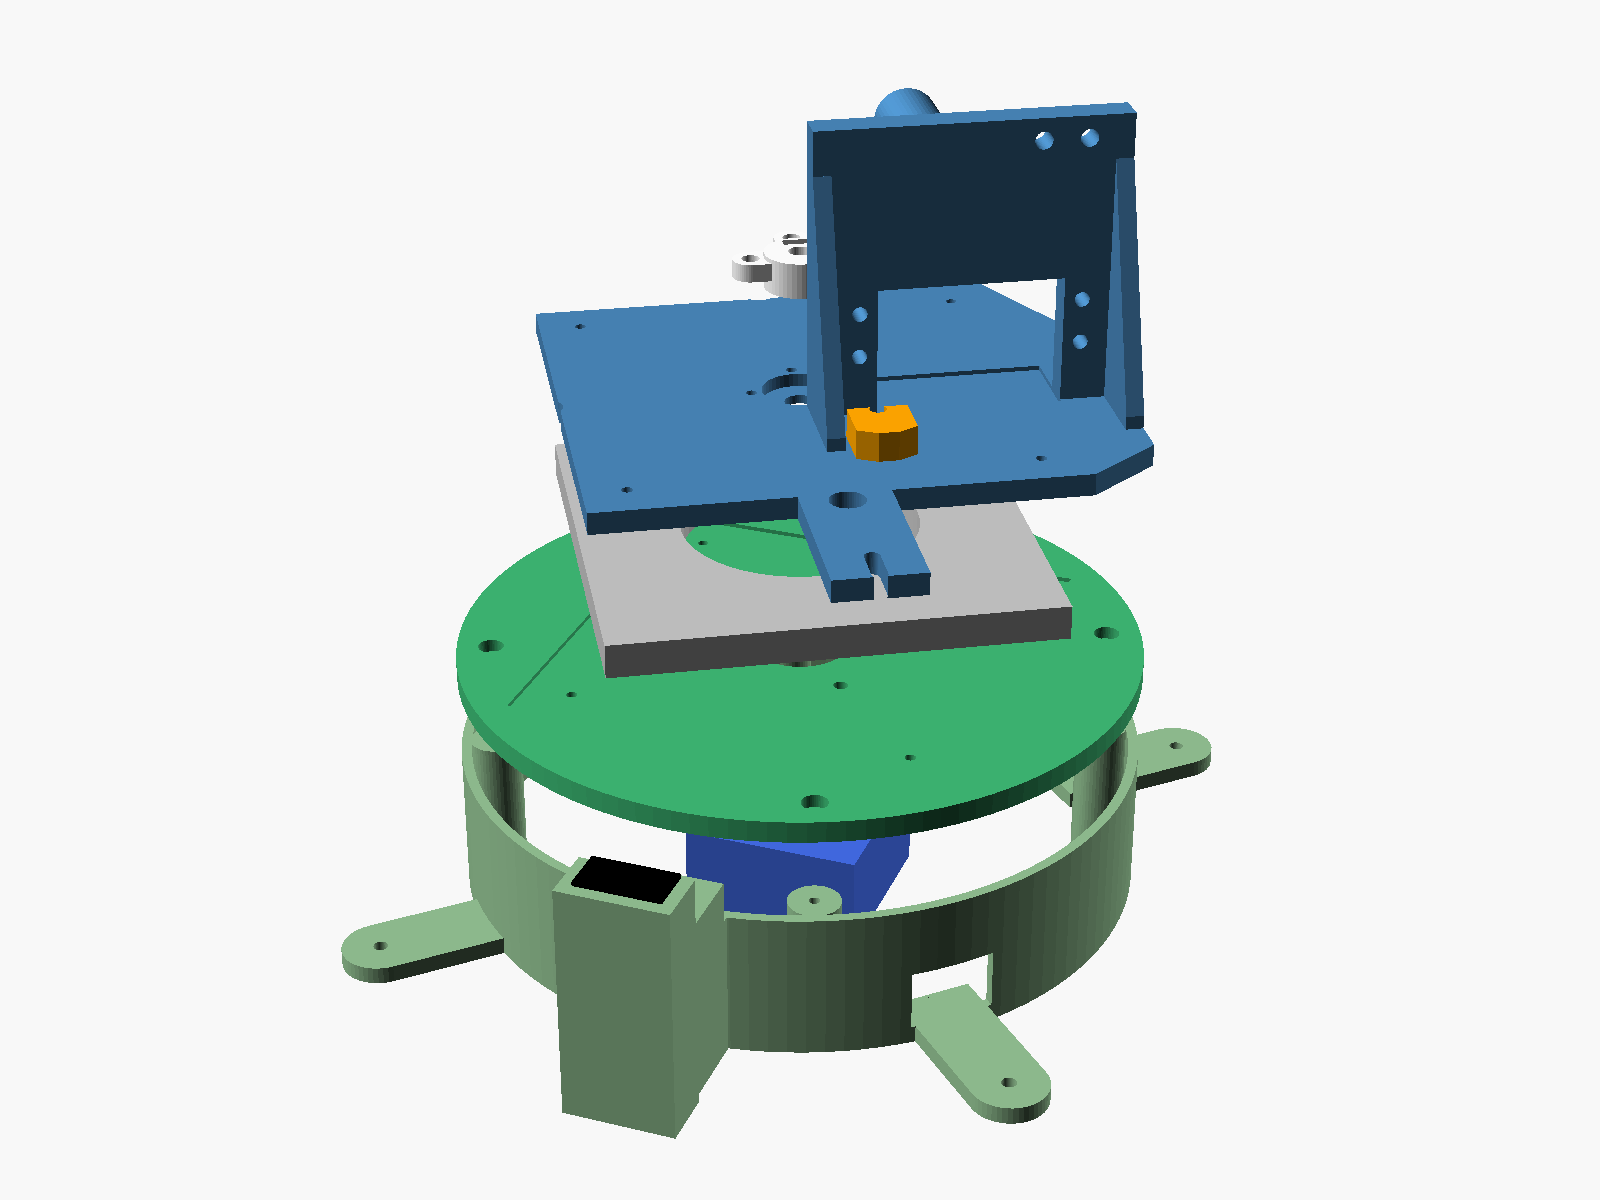
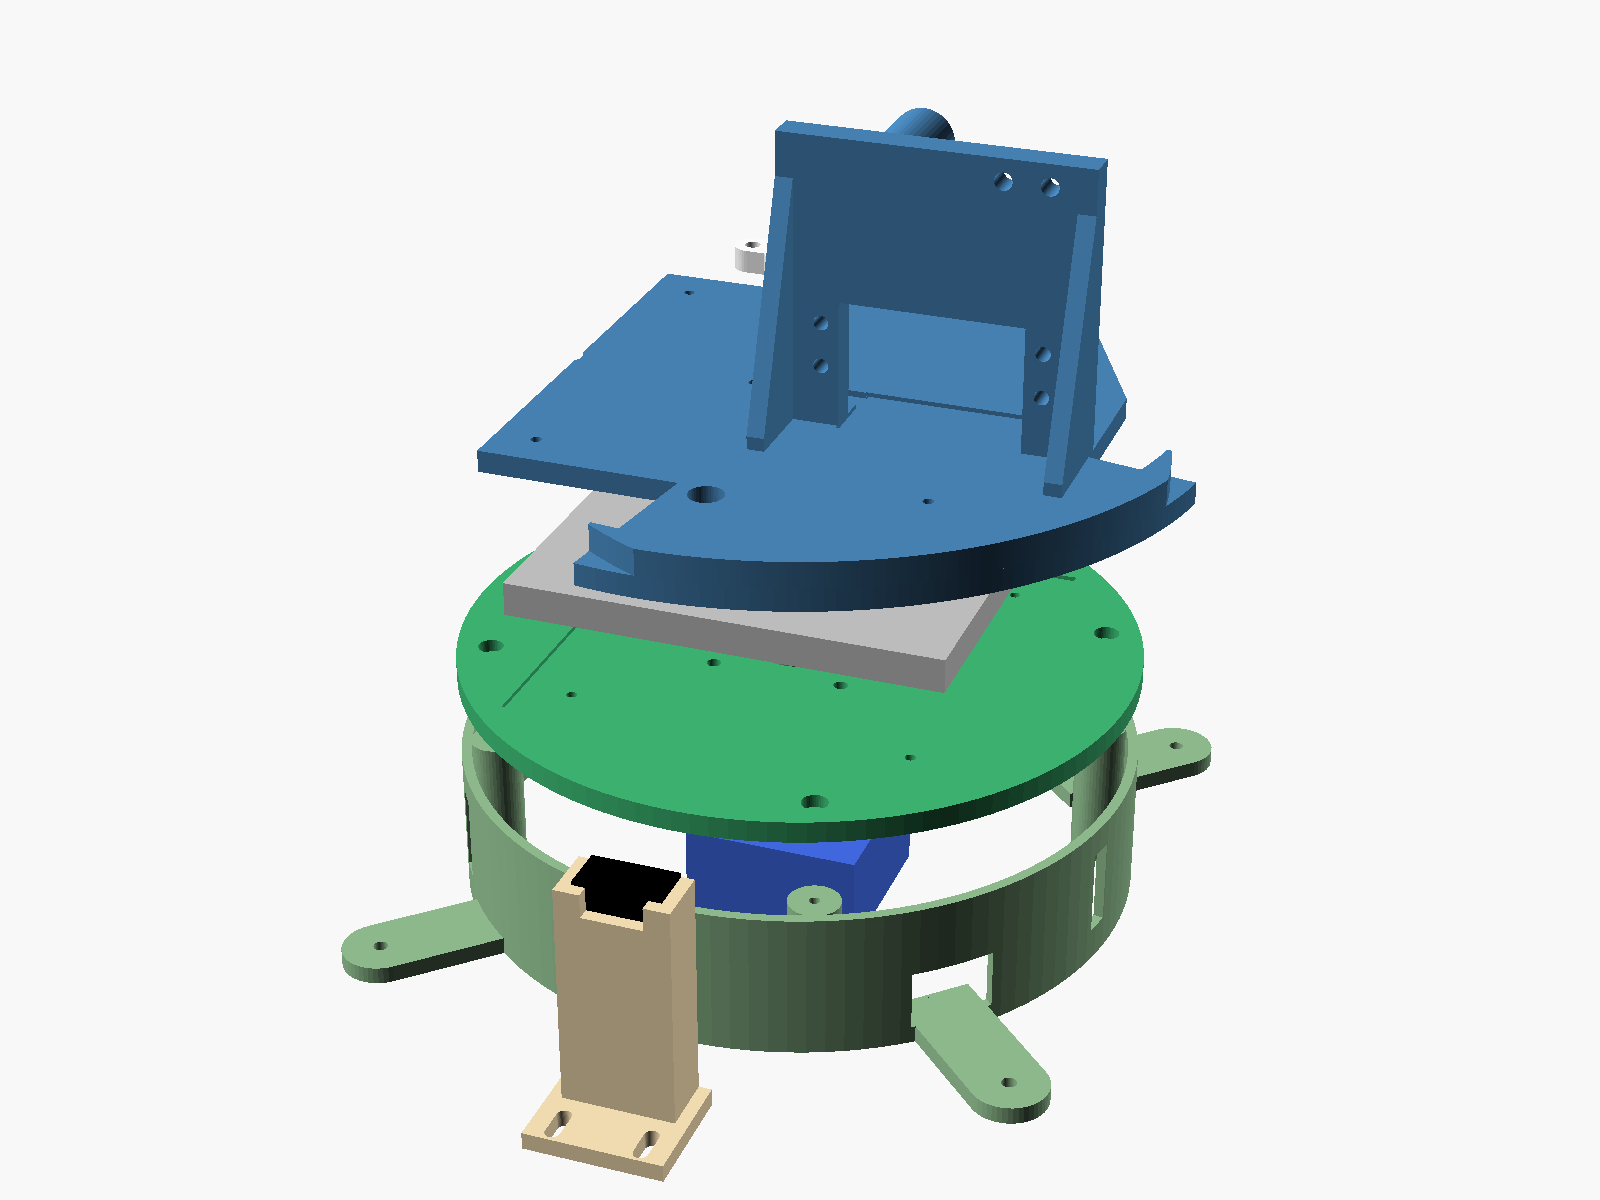
Option B round 5.1: home cam rim + separate switch cradle (unambiguous homing), self-centring bearing plate, collar set screw on +X, pedestal vents, assembly order + TMC2209 notes

diff --git a/cad_b/b_check.py b/cad_b/b_check.py
@@ -54,7 +54,9 @@ def check(ok, msg):
 stations = [S0 + i * PITCH for i in range(N)]
 names = ["hopper", "scan/weigh"] + [f"bin {i}" for i in range(1, 7)] + ["reject"]
 print("stations: " + ", ".join(f"{n} {s:.0f}" for s, n in zip(stations, names)))
-check(stations[-1] - stations[0] + stations[0] <= 180, f"yaw span home 0 .. {stations[-1]:.0f}: inside the half turn the cable loop allows (stepper: no travel limit of its own)")
+CAM_A0, CAM_A1, CAM_RAMP, SW_AZ, POST_CRASH = 262, 350, 8, 270, -90
+press_lo, press_hi = SW_AZ - (CAM_A1 - CAM_RAMP), SW_AZ - (CAM_A0 + CAM_RAMP)
+check(press_hi == 0 and press_lo > POST_CRASH and SW_AZ - CAM_A0 < stations[0], f"home cam holds the switch for arm {press_lo}..{press_hi} deg (ramps to {SW_AZ-CAM_A1}/{SW_AZ-CAM_A0}); released over the working range from {stations[0]}; cable post hit at ~{POST_CRASH}")
 
 # hopper fits its slot
 hop_ow = HOP_IN_W + 2 * WALL
@@ -114,7 +116,7 @@ check(shaft_top - NM_FLAT_L <= COL_SS_Z - 2, f"set screw at Z {COL_SS_Z:.1f} lan
 r_head_in = NM_HOLE / math.sqrt(2) - 2.75
 check(NM_HOLE / math.sqrt(2) + 2.75 <= LS_HOLE / 2, f"motor screw heads r {r_head_in:.1f}..{NM_HOLE/math.sqrt(2)+2.75:.1f}: inside the bearing hole (r {LS_HOLE/2:.1f})")
 # torque / time: arm inertia about the yaw axis (rough masses, PETG ~40 % infill)
-I = 0.055 * 0.03**2 + 0.05 * 0.22**2 / 3 + 0.06 * 0.245**2 + 0.12 * 0.045**2   # lift servo, links, hand+slider+cup+tube, turntable
+I = 0.055 * 0.03**2 + 0.066 * 0.22**2 / 3 + 0.06 * 0.245**2 + 0.15 * 0.05**2   # lift servo, links (2 x 33 g, 100 % infill), hand+slider+cup+tube, turntable+cam sector
 T_hold = 0.17                                        # 17 N cm holding (pancake, 1 A)
 T_avail = 0.25 * T_hold                              # at 30 rpm on 12 V a pancake keeps well over half; use a quarter
 alpha_cmd = math.radians(300)                        # commanded accel/decel: gentle on the 220 mm links
@@ -125,8 +127,8 @@ def move_t(deg):
     ang = math.radians(deg); t_acc = w_max / alpha_cmd
     return 2 * t_acc + (ang - alpha_cmd * t_acc**2) / w_max if alpha_cmd * t_acc**2 < ang else 2 * math.sqrt(ang / alpha_cmd)
 check(move_t(160) <= 2.0, f"yaw: 160 deg in {move_t(160):.1f} s, 20 deg hop {move_t(20):.2f} s")
-stiff_defl = math.degrees(math.asin(0.010 / T_hold)) * (7.2 / 360)   # 10 mN m disturbance, 4 full steps per electrical cycle
-check(stiff_defl <= 0.1, f"yaw stiffness: a 10 mN m disturbance (tilted board, cable) moves the arm {stiff_defl:.3f} deg")
+stiff_defl = math.degrees(math.asin(0.010 / (0.5 * T_hold))) * (7.2 / 360)   # 10 mN m disturbance at the TMC2209's default 50 % standstill current
+check(stiff_defl <= YAW_REPEAT_DEG, f"yaw stiffness: a 10 mN m disturbance (tilted board, cable) moves the arm {stiff_defl:.3f} deg")
 
 # load cell: owned 5 kg bar (not a 50 g TAL221)
 check(30 + 40 + 2 * 1.75 < 5000, "platform load (slider 30 g + bed 40 g + 2 cards) well inside the 5 kg cell")

diff --git a/cad_b/export_b.py b/cad_b/export_b.py
@@ -22,8 +22,8 @@ PARTS = {
     "pedestal":      (1, "PETG", [0, 0, 0],   "tabs down, open tube, no supports"),
     "deck":          (1, "PETG", [0, 0, 0],   "flat, pocket up"),
     "turntable":     (1, "PETG", [0, 0, 0],   "plate down, no supports"),
-    "collar":        (1, "PETG", [180, 0, 0], "ears down (upside down), 100 % infill, no supports"),
-    "trip":          (1, "PETG", [0, 0, 0],   ""),
+    "collar":        (1, "PETG", [180, 0, 0], "top face down, 100 % infill, no supports"),
+    "switch_cradle": (1, "PETG", [0, 0, 0],   "base down"),
     "link_a":        (1, "PETG", [90, 0, 0],  "100 % infill, flat"),
     "link_b":        (1, "PETG", [90, 0, 0],  "100 % infill, flat"),
     "sleeve":        (3, "PETG", [0, 0, 0],   "brim"),

diff --git a/cad_b/README.md b/cad_b/README.md
@@ -58,3 +58,27 @@ The reviewer found three blockers in round 4. Two were the 28BYJ-48's 1-3 deg ge
 - Bearing holes: `ls_pitch_bot` (deck, 80.8 assumed) and `ls_pitch_top` (turntable, 88.9 assumed) are separate. **Measure the real bearing before printing the deck and turntable.** Everything else can print now. To reach all 4 bottom-plate screws, park the arm at +45 deg and then at -45 deg.
 - Home switch moved to az 270, behind the axis. At az 180 the links hit it at the reject station (caught by the sweep). It's a KW12-3 press-fit in a walled cradle at Z 51. A separate chamfered `trip` block on a 20 mm tab (local 270) slides in a radial slot (M3 x 12 + nut) to set the click point. During homing the tab arrives from the +X side: fit the switch with its lever hinge on that side.
 - Firmware: approach every station from the same direction anyway (it costs nothing). Re-home at each hopper visit to catch any missed step.
+
+## Round 5.1 (second review fixes, 2026-11-14)
+
+- Home switch: the trip block and tab are gone. A **cam rim** on a sector of the turntable (local 262..350 deg, r 96, Z 51.4..57.4, 8 deg ramps at both ends) holds the switch pressed for every arm angle from 0 down to -72. So pressed means "at or below home", released means "in the working range", and homing is never ambiguous. The cable post is hit at about -90, below the cam.
+- `switch_cradle` is a separate part on the board at az 270 (2 x M3 x 12 into pilots drilled in the plywood). Its radial slots put the switch face anywhere from r 97.5 to 103.5: slide it in until the roller clicks on the rim with ~1 mm of overtravel. The KW12-3 press-fits between the end walls, and the solder tags exit through the open outer side.
+- Deck pocket is now 1.3 mm per side oversize. Bottom-plate screws are M3 x 6 with washers, so the bearing's bottom plate can centre itself on the motor shaft (see assembly). The collar is now rigid (Ø3.4 holes, fully tight).
+- Collar: set screw moved to +X, with a key notch in the recess rim. The ears are full height, so it prints top-face-down with no supports.
+- Pedestal: 6 vent slots for motor heat. b_check: link mass 2 x 33 g, stiffness at the TMC2209's default 50 % standstill current (0.135 deg), and the cam coverage check replaces a span check that could never fail.
+
+### Yaw stage assembly order
+1. Motor to deck on the bench: boss into the Ø22.4 hole, 4 x M3 x 8 from above. These screws can't be reached later.
+2. Deck onto the pedestal tube: 4 x M3 x 10. Pedestal to the board: 4 x M3. Run the motor leads out through the az 315 slot.
+3. Bearing's top plate to the turntable underside: M3 x 6 into pilots on `ls_pitch_top`, driven up from below with the plates turned 45 deg apart.
+4. Turntable + bearing onto the deck, with the bottom plate loose in its pocket. Shaft up through the Ø7 hole.
+5. Collar onto the shaft, set screw (+X) onto the flat, 2 x M3 x 10 into the turntable, all fully tight.
+6. Bottom-plate screws: M3 x 6 + washers through the Ø8 access holes. Park the arm at +45 deg for three of them and -45 deg for the fourth, and snug them. Swing the arm a full sweep by hand, then tighten.
+7. Switch cradle: drill 2 pilots in the board, slide it in until the switch clicks with the arm at 0 (on the rim, ~1 mm overtravel), then tighten.
+
+### Electronics notes (TMC2209 on the Pi Zero 2 W)
+- VM 12 V from the adapter, with a 1000 µF cap at VM/GND. VIO 3.3 V from the Pi. Common ground.
+- STEP/DIR on two GPIOs, step pulses timed with pigpio DMA waveforms. EN with a 10 k pull-up to 3.3 V, so the motor stays off during boot.
+- UART: Pi TX through 1 kΩ to PDN_UART, Pi RX straight to PDN_UART. Use `dtoverlay=disable-bt` and turn off the serial console. Set the run current to ~0.7 A. Set the hold current equal to the run current (IHOLD = IRUN) for full stiffness at the stations.
+- The 12 V 3 A adapter feeds the pump, the 5 V converter (servo) and the stepper: stagger the pump start and the yaw moves.
+- Firmware: approach every station from the same direction. Allow ~150 ms of settle after each move (the arm rings at ~5-7 Hz). Home onto the switch's press edge from above. At hopper visits only *check* the switch state, don't re-zero. Measure station angles once with the camera rather than trusting the computed ones.
